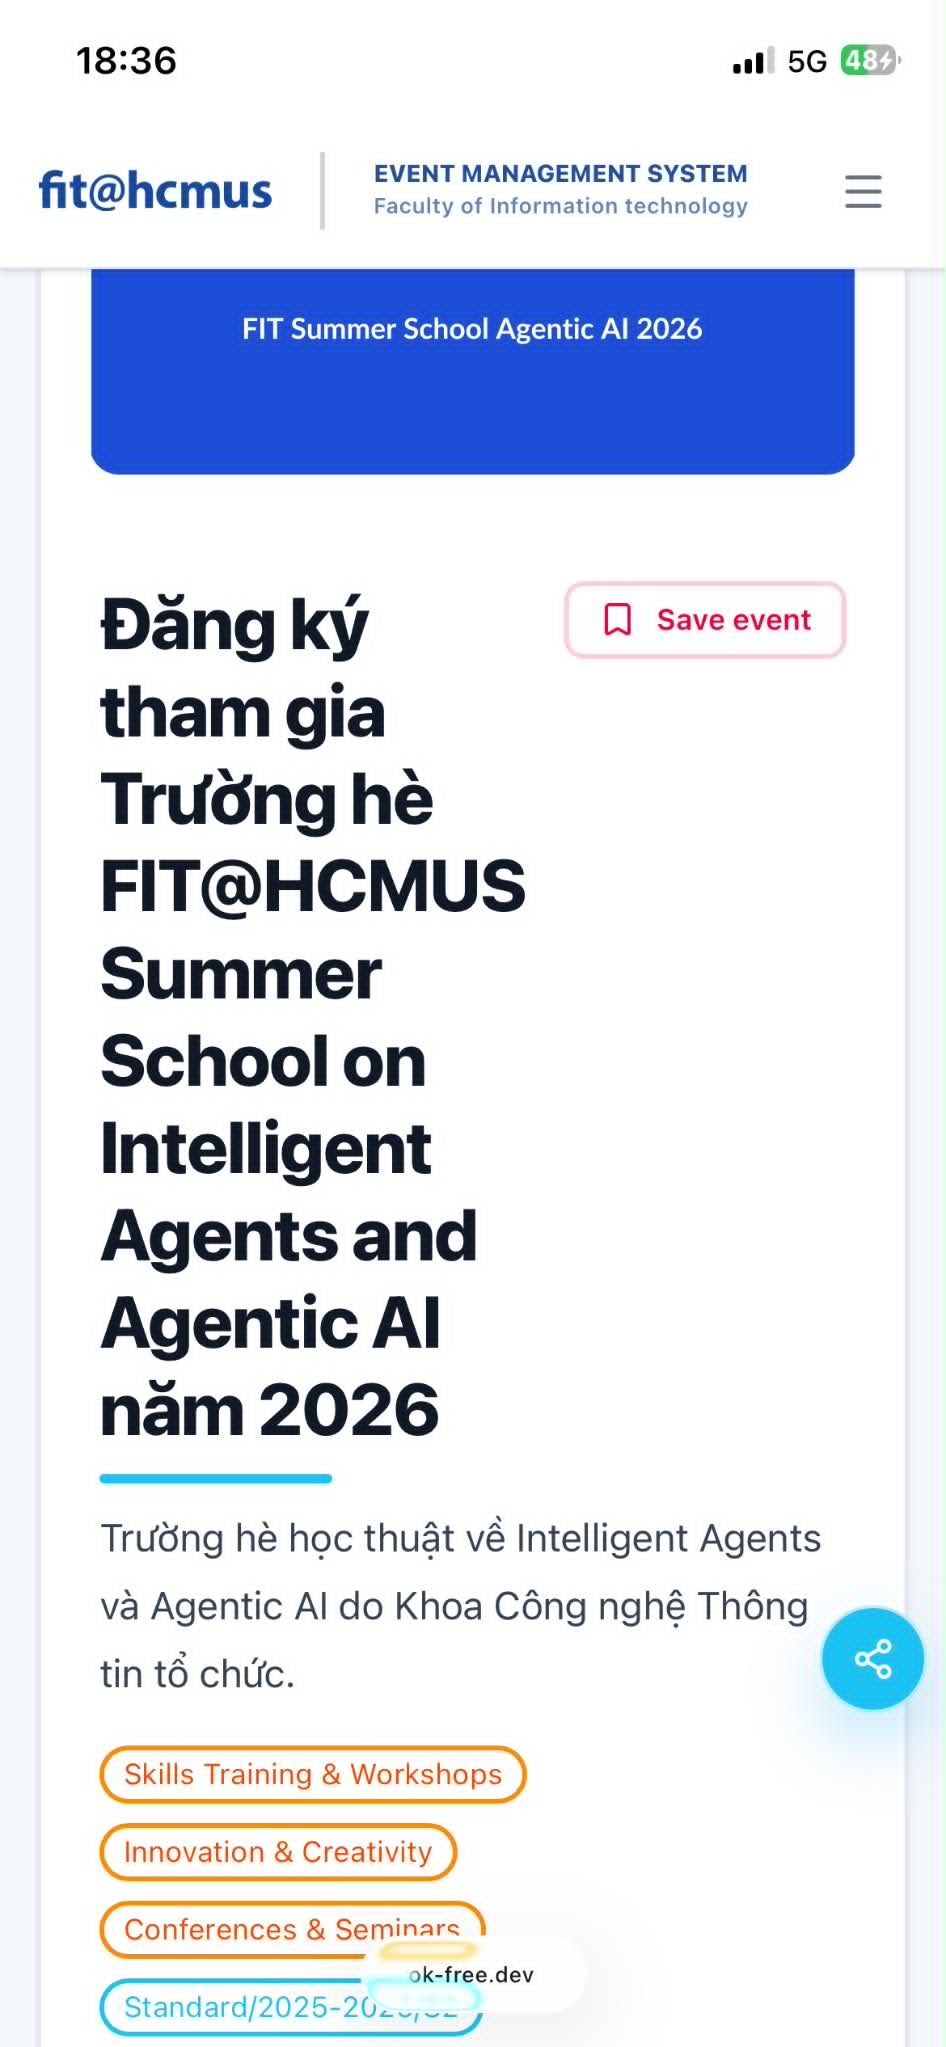
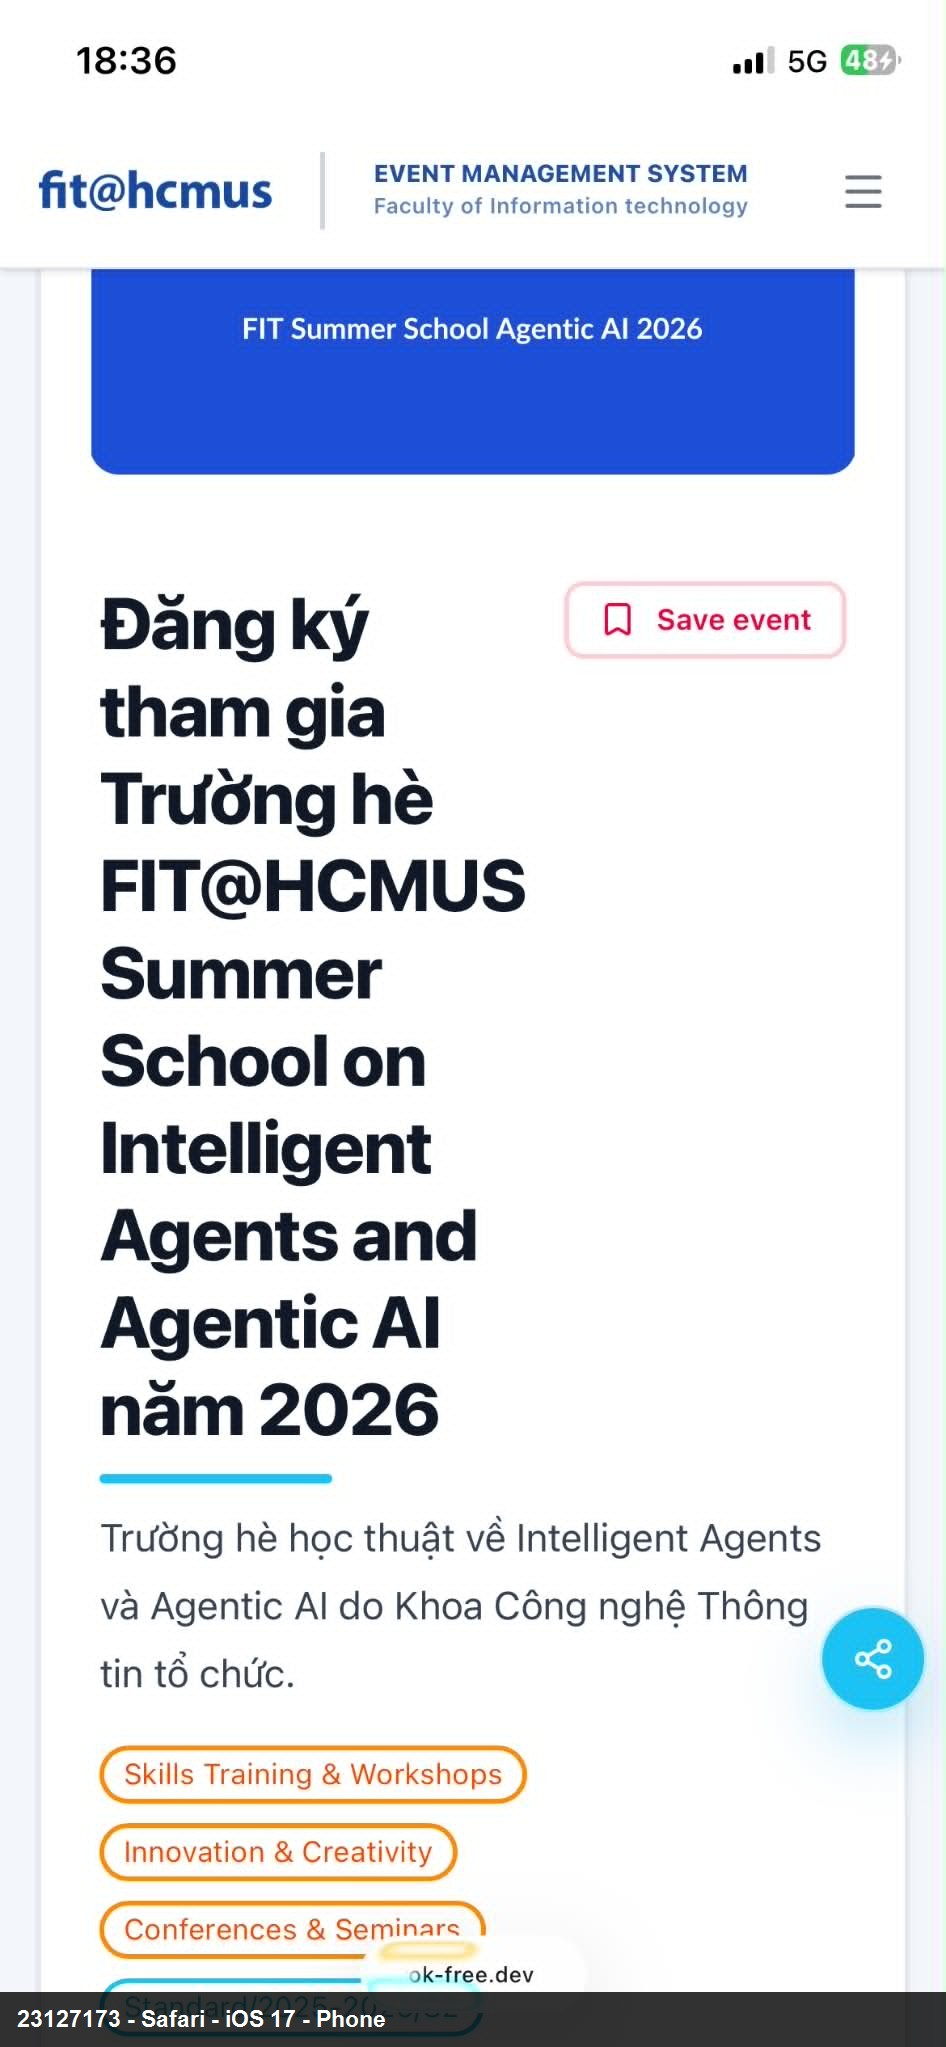
docs(hw3): add compatibility evidence overlays

Changed region(s): [[0.0, 0.9541, 1.0, 1.0]]

diff --git a/HW3/23127173_HW03_AI_GUIUsability_EMS_095/doc/md/AI Audit/01_AI-Audit-Report.md b/HW3/23127173_HW03_AI_GUIUsability_EMS_095/doc/md/AI Audit/01_AI-Audit-Report.md
@@ -29,6 +29,7 @@ AI chỉ hỗ trợ tạo cấu trúc thư mục và template Markdown ban đầ
 | AI-022 | 16:42 02/08/2026 (UTC+7) | Codex | Rà soát ba ảnh bằng chứng Firefox/Android tablet do sinh viên bổ sung và cập nhật compatibility matrix theo kết quả sinh viên chỉ định. | Liên kết ảnh B1/B2/B4 vào S1-C02, S2-C02, S3-C02; ghi B1 là `Pass (Warning)` do ảnh/banner quá lớn, B2/B4 là Pass; cập nhật chỉ số bao phủ và tóm tắt kết quả. | VALID | AI chỉ kiểm tra sự hiện diện/nội dung hiển thị của ảnh; sinh viên chịu trách nhiệm về thao tác test thật, lớp phủ MSSV và kết luận nghiệp vụ. |
 | AI-023 | 16:46 02/08/2026 (UTC+7) | Codex | Rà soát ba ảnh bằng chứng Opera/Windows desktop do sinh viên bổ sung và cập nhật compatibility matrix. | Liên kết ảnh B1/B2/B4 vào S1-C05, S2-C05, S3-C05; ghi cả ba cell là Pass và hoàn tất coverage 5 browser/3 OS/3 loại thiết bị cho từng màn hình. | VALID | AI chỉ cập nhật theo bằng chứng và kết quả sinh viên cung cấp; không tạo screenshot hoặc tự suy diễn Pass/Fail. |
 | AI-024 | 16:49 02/08/2026 (UTC+7) | Codex | Rà soát compatibility matrix với `Lab/HW3/requirement/requirement.md`, chuẩn hóa đường dẫn evidence và đánh dấu coverage. | Đổi toàn bộ 15 đường dẫn screenshot sang gốc `23127173_HW03_AI_GUIUsability_EMS_095`; điền công cụ/ngày/người thực hiện; thêm checklist đối chiếu 3 OS, 5 browser, 3 loại thiết bị và 15 ảnh. | VALID | Phát hiện yêu cầu bắt buộc về lớp phủ `MSSV@....edu.vn` cùng browser/OS/device cần được sinh viên rà soát trên từng ảnh; không sửa hoặc tạo ảnh để bù bằng chứng. |
+| AI-025 | 16:54 02/08/2026 (UTC+7) | Codex + xử lý ảnh cục bộ | Thêm lớp phủ định danh theo yêu cầu sinh viên cho 15 ảnh compatibility. | Ghi một dải chữ ở cuối mỗi ảnh theo mẫu `23127173 - {browser} - {platform} - {device}` bằng xử lý ảnh xác định tại máy cục bộ; không dùng AI tạo nội dung ảnh hoặc thay đổi giao diện EMS. | VALID | Lớp phủ hiện có MSSV, browser, platform và device; nếu giảng viên yêu cầu đúng dạng email `MSSV@....edu.vn`, sinh viên cần cung cấp địa chỉ email để thay lớp phủ trước khi nộp. |
 
 ## Quy tắc cập nhật
 

diff --git a/HW3/23127173_HW03_AI_GUIUsability_EMS_095/doc/md/appendixA-prompt-log.md b/HW3/23127173_HW03_AI_GUIUsability_EMS_095/doc/md/appendixA-prompt-log.md
@@ -24,5 +24,6 @@
 | AI-022 | 16:42 02/08/2026 (UTC+7) | Codex | Rà soát ba ảnh Firefox/Android tablet và cập nhật matrix | S1-C02, S2-C02, S3-C02; tổng hợp coverage/tóm tắt | B1 Pass (Warning); B2/B4 Pass; còn các cell Opera chưa chạy |
 | AI-023 | 16:46 02/08/2026 (UTC+7) | Codex | Rà soát ba ảnh Opera/Windows và cập nhật matrix | S1-C05, S2-C05, S3-C05; hoàn tất coverage/tóm tắt | Cả ba cell Pass; không tạo screenshot hoặc suy diễn kết quả |
 | AI-024 | 16:49 02/08/2026 (UTC+7) | Codex | Đối chiếu Task 3 với requirement HW3, chuẩn hóa path evidence và coverage | 15 screenshot paths, metadata ma trận, checklist đối chiếu | Đạt coverage 3 OS/5 browser/3 device; cần xác minh lớp phủ MSSV/browser/OS/device |
+| AI-025 | 16:54 02/08/2026 (UTC+7) | Codex + xử lý ảnh cục bộ | Thêm lớp phủ định danh cho 15 screenshot compatibility | Dải chữ `23127173 - {browser} - {platform} - {device}` ở cuối mỗi ảnh | Không dùng AI tạo nội dung ảnh; cần đổi sang email MSSV nếu giảng viên yêu cầu đúng dạng email |
 
 > Prompt log này chỉ mục lục hóa các tương tác AI thật. Nội dung prompt/output đầy đủ phải nằm trong AI Audit Report.
